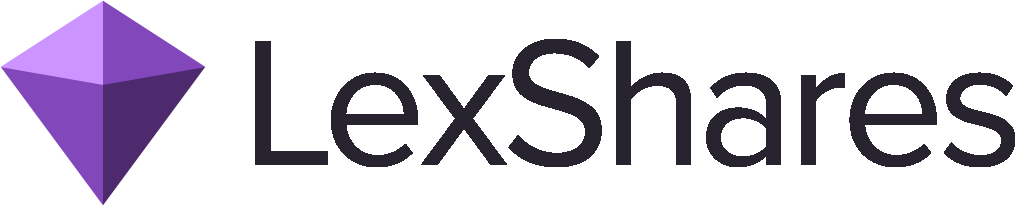
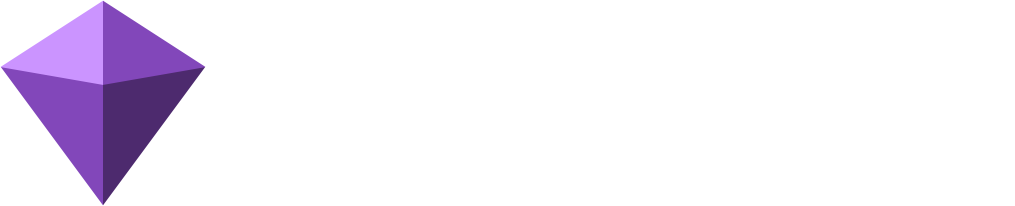
wip

Changed region(s): [[0.2443, 0.1748, 1.0, 0.8155]]

diff --git a/assets/css/about.css b/assets/css/about.css
@@ -94,6 +94,7 @@
     --cybex: url(/assets/images/clients/light-mode/cybex.png);
     --qeepsake: url(/assets/images/clients/light-mode/qeepsake.png);
     --conformis: url(/assets/images/clients/light-mode/conformis.png);
+    --lexshares: url(/assets/images/clients/light-mode/lexshares.png);
   }
 }
 
@@ -106,7 +107,12 @@
     --cybex: url(/assets/images/clients/dark-mode/cybex.png);
     --qeepsake: url(/assets/images/clients/dark-mode/qeepsake.png);
     --conformis: url(/assets/images/clients/dark-mode/conformis.png);
+    --lexshares: url(/assets/images/clients/dark-mode/lexshares.png);
   }
+}
+
+#lexshares {
+  content: var(--lexshares);
 }
 
 #conformis {

diff --git a/about.html b/about.html
@@ -93,7 +93,7 @@ layout: page
       <img id="conformis" class="client-image" />
     </div>
     <div class="client-image-container">
-      <img src="/assets/images/clients/lexshares.png" class="client-image" />
+      <img id="lexshares" class="client-image" />
     </div>
     <div class="client-image-container">
       <img src="/assets/images/clients/laborocity.png" class="client-image" />
